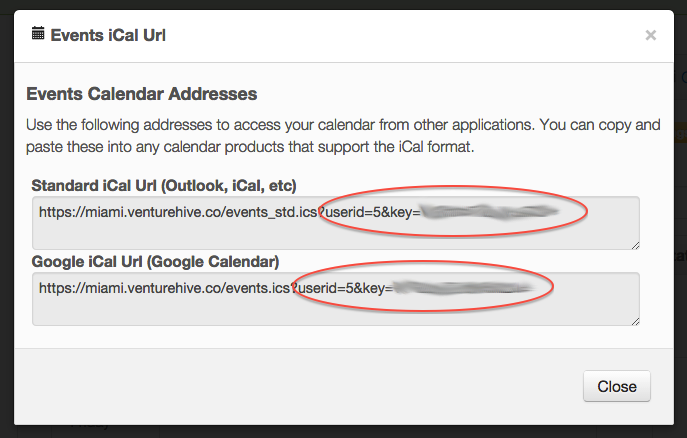
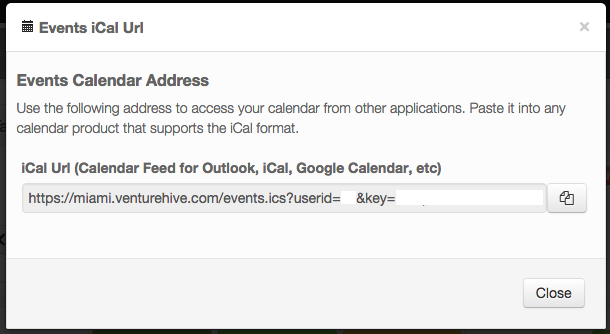
changing ical url dlg description and images to account for unified ical url's

Changed region(s): [[0.0, 0.0, 1.0, 1.0], [0.9033, 0.7186, 0.9344, 0.7485], [0.9033, 0.4491, 0.9344, 0.479]]

diff --git a/src/beekeeper/user.md b/src/beekeeper/user.md
@@ -30,13 +30,13 @@ Events represent internal or public calendar entries created for your site membe
 
 As with all scheduled content, you can subscribe to a personalized `Events` iCal feed by clicking on the Events iCal button ![Events iCal URL](./images/events_ical.png) 
 
-The Events iCal URL provided to you is unique to your account and shows all of the events that are available to you. There are separate URL's provided for *standard iCal* (Outlook, iCal, etc) and for *Google Calendar iCal* (for Google Calendar). ![Events iCal URL Dialog](./images/events_ical_dlg.png) 
+The Events iCal URL provided to you is unique to your account and shows all of the events that are available to you. The URL provided works for all iCal supported calendars: Outlook, iCal, Google Calendar, etc. ![Events iCal URL Dialog](./images/events_ical_dlg.png) 
 
 ## Meetings
 
 As with all scheduled content, you can subscribe to a personalized `Meetings` iCal feed by clicking on the Meetings iCal button ![Meetings iCal URL](./images/meetings_ical.png) 
 
-The Meetings iCal URL provided to you is unique to your account and shows all of the Meetings to which you are invited. There are separate URL's provided for *standard iCal* (Outlook, iCal, etc) and for *Google Calendar iCal* (for Google Calendar). ![Meetings iCal URL Dialog](./images/meetings_ical_dlg.png) 
+The Meetings iCal URL provided to you is unique to your account and shows all of the Meetings to which you are invited. The URL provided works for all iCal supported calendars: Outlook, iCal, Google Calendar, etc. ![Meetings iCal URL Dialog](./images/meetings_ical_dlg.png) 
 
 ## Meeting Notes
 
@@ -44,7 +44,7 @@ The Meetings iCal URL provided to you is unique to your account and shows all of
 
 As with all scheduled content, you can subscribe to a personalized `Objectives` iCal feed by clicking on the Objectives iCal button ![Objectives iCal URL](./images/objectives_ical.png) 
 
-The Objectives iCal URL provided to you is unique to your account and shows all of the Objectives to which you are invited. There are separate URL's provided for *standard iCal* (Outlook, iCal, etc) and for *Google Calendar iCal* (for Google Calendar). ![Objectives iCal URL Dialog](./images/objectives_ical_dlg.png) 
+The Objectives iCal URL provided to you is unique to your account and shows all of the Objectives to which you are invited. The URL provided works for all iCal supported calendars: Outlook, iCal, Google Calendar, etc. ![Objectives iCal URL Dialog](./images/objectives_ical_dlg.png) 
 
 ## Manage Ventures
 
